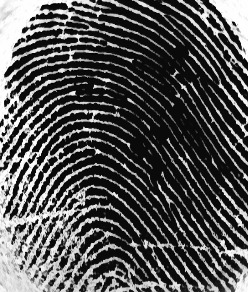
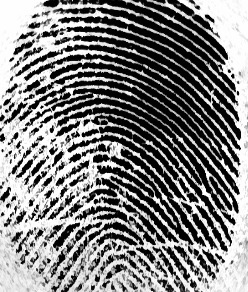
feat: processing images and improving models

diff --git a/app/utils/process_images.py b/app/utils/process_images.py
@@ -1,0 +1,42 @@
+import cv2
+import numpy as np
+
+def process(image_bytes: bytes) -> bytes:
+    # 0. Converter bytes → imagem em escala de cinza
+    np_arr = np.frombuffer(image_bytes, np.uint8)
+    img = cv2.imdecode(np_arr, cv2.IMREAD_GRAYSCALE)
+
+    # 1. Suavização inicial (Gaussiano)
+    blurred = cv2.GaussianBlur(img, (5, 5), 0)
+
+    # 2. Realce adaptativo (CLAHE)
+    clahe = cv2.createCLAHE(clipLimit=2.0, tileGridSize=(8, 8))
+    enhanced = clahe.apply(blurred)
+
+    # 3. Filtro de Gabor (realce de texturas, útil em digitais)
+    #   usamos múltiplas orientações e somamos os resultados
+    gabor_sum = np.zeros_like(enhanced, dtype=np.float32)
+    num_orientations = 8
+    ksize = 15  # tamanho do kernel
+    sigma = 4.0
+    lambd = 10.0
+    gamma = 0.5
+
+    for theta in np.linspace(0, np.pi, num_orientations, endpoint=False):
+        kernel = cv2.getGaborKernel((ksize, ksize), sigma, theta, lambd, gamma, 0, ktype=cv2.CV_32F)
+        filtered = cv2.filter2D(enhanced, cv2.CV_32F, kernel)
+        gabor_sum = np.maximum(gabor_sum, filtered)
+
+    gabor_normalized = cv2.normalize(gabor_sum, None, 0, 255, cv2.NORM_MINMAX).astype(np.uint8)
+
+    # erosão
+    # opening
+
+    # 4. Binarização (Otsu)
+    _, binary = cv2.threshold(gabor_normalized, 0, 255, cv2.THRESH_BINARY + cv2.THRESH_OTSU)
+
+    # ✅ Converte resultado final para PNG (bytes)
+    success, encoded_img = cv2.imencode(".png", binary)
+    if not success:
+        raise ValueError("Erro ao converter imagem processada para PNG")
+    return encoded_img.tobytes()

diff --git a/reading-image-test.py b/reading-image-test.py
@@ -2,6 +2,7 @@ from app.db import SessionLocal
 from app.models.fingerprint import Fingerprint
 
 def export_fingerprint_image(fingerprint_id, output_path):
+    filtered_path = 'fingerprint_filtered.jpg'
     session = SessionLocal()
     try:
         # Busca a impressão digital pelo ID
@@ -15,6 +16,9 @@ def export_fingerprint_image(fingerprint_id, output_path):
             with open(output_path, "wb") as out_file:
                 out_file.write(fingerprint.image_data)
             print(f"Imagem exportada com sucesso para: {output_path}")
+            with open(filtered_path, "wb") as out_file:
+                out_file.write(fingerprint.image_filtered)
+            print(f"Imagem exportada com sucesso para: {filtered_path}")
         else:
             print("Impressão digital não contém dados de imagem.")
 
@@ -24,4 +28,4 @@ def export_fingerprint_image(fingerprint_id, output_path):
         session.close()
 
 if __name__ == "__main__":
-    export_fingerprint_image(fingerprint_id=7, output_path="output_fingerprint.jpg")
+    export_fingerprint_image(fingerprint_id=8, output_path="output_fingerprint.jpg")

diff --git a/app/routers/fingerprint.py b/app/routers/fingerprint.py
@@ -6,6 +6,7 @@ from app.models.volunteer import Volunteer
 from app.models.fingerprint import Fingerprint
 from app.constants.enum import FingerEnum, HandEnum, PatternEnum
 from app.db import get_db
+from app.utils.process_images import process
 
 
 router = APIRouter(prefix="/fingerprints", tags=["Fingerprints"])
@@ -36,6 +37,7 @@ async def create_fingerprint(
         raise HTTPException(status_code=404, detail="Volunteer not found")
 
     image_bytes = await image_data.read()
+    image_filtered = process(image_bytes)
 
     new_fp = Fingerprint(
         volunteer_id=volunteer_id,
@@ -45,6 +47,7 @@ async def create_fingerprint(
         delta=delta,
         notes=notes,
         image_data=image_bytes,
+        image_filtered=image_filtered,
         created_at=datetime.now()
     )
     db.add(new_fp)

diff --git a/app/models/fingerprint.py b/app/models/fingerprint.py
@@ -9,7 +9,7 @@ class Fingerprint(Base):
     __tablename__ = "fingerprints"
 
     id = Column(Integer, primary_key=True)
-    patient_id = Column(Integer, ForeignKey("volunteers.id"), nullable=False)
+    volunteer_id = Column(Integer, ForeignKey("volunteers.id"), nullable=False)
 
     hand = Column(Enum(HandEnum), nullable=False)
     finger = Column(Enum(FingerEnum), nullable=False)
@@ -23,4 +23,4 @@ class Fingerprint(Base):
     created_at = Column(DateTime, default=datetime.utcnow)
     updated_at = Column(DateTime, default=datetime.utcnow, onupdate=datetime.utcnow)
 
-    patient = relationship("Volunteer", back_populates="fingerprints")
+    volunteer = relationship("Volunteer", back_populates="fingerprints")

diff --git a/restart-database.py b/restart-database.py
@@ -1,4 +1,4 @@
-from sqlalchemy import create_engine
+from sqlalchemy import create_engine, text
 from app.models.fingerprint import Base
 from app.models.volunteer import Volunteer
 from app.models.project import Project
@@ -13,9 +13,16 @@ import os
 load_dotenv()
 
 DATABASE_URL = os.getenv("DATABASE_URL")
-
 engine = create_engine(DATABASE_URL)
 
+with engine.connect() as conn:
+    conn.execute(text("DROP SCHEMA public CASCADE;"))
+    conn.execute(text("CREATE SCHEMA public;"))
+    conn.commit()
+
+print("Schema limpo com sucesso!")
+
+print("Criando tabelas...")
 Base.metadata.create_all(bind=engine)
 
-print("Tabelas criadas com sucesso!")
+print("Banco de dados resetado com sucesso!")

diff --git a/app/main.py b/app/main.py
@@ -1,11 +1,21 @@
 from fastapi import FastAPI
-from app.routers import user, fingerprint, review, auth, volunteer
+from app.routers import user, fingerprint, auth, volunteer
+from fastapi.middleware.cors import CORSMiddleware
 
 app = FastAPI(title="TCC Dermatóglifo API", version="1.0")
+
+app.add_middleware(
+    CORSMiddleware,
+    allow_origins=["http://localhost:8080"],
+    allow_credentials=True,
+    allow_methods=["*"],
+    allow_headers=["*"],
+)
+
 
 app.include_router(auth.router)
 app.include_router(user.router)
 app.include_router(volunteer.router)
 app.include_router(fingerprint.router)
-app.include_router(review.router)
+# app.include_router(review.router)
 

diff --git a/app/routers/volunteer.py b/app/routers/volunteer.py
@@ -8,12 +8,9 @@ from app.db import get_db
 router = APIRouter(prefix="/volunteers", tags=["Volunteer"])
 
 @router.get("/", response_model=list[VolunteerOut])
-def list_volunteers():
-    return [{
-        "id": 1, "name": "Maria Souza", "age": 30, "gender": "female",
-        "phone": "11999999999", "description": "Paciente exemplo",
-        "created_at": datetime.now()
-    }]
+def list_volunteers(db: Session = Depends(get_db)):
+    volunteers = db.query(Volunteer).all()
+    return volunteers
 
 @router.post("/", response_model=VolunteerOut)
 def create_volunteer(volunteer: VolunteerCreate, db: Session = Depends(get_db)):

diff --git a/app/models/volunteer.py b/app/models/volunteer.py
@@ -14,8 +14,8 @@ class Volunteer(Base):
     gender = Column(Enum(GenderEnum))
     phone = Column(String)
 
-    created_at = Column(DateTime, default=datetime.utcnow)
-    updated_at = Column(DateTime, default=datetime.utcnow, onupdate=datetime.utcnow)
+    created_at = Column(DateTime, default=datetime.utcnow, nullable=False)
+    updated_at = Column(DateTime, default=datetime.utcnow, onupdate=datetime.utcnow, nullable=False)
 
     fingerprints = relationship("Fingerprint", back_populates="volunteer")
     # analyses = relationship("Analyse", back_populates="patient")

diff --git a/app/schemas/fingerprint.py b/app/schemas/fingerprint.py
@@ -4,7 +4,7 @@ from typing import Optional
 from app.constants.enum import HandEnum, FingerEnum, PatternEnum
 
 class FingerprintCreate(BaseModel):
-    patient_id: int
+    volunteer_id: int
     hand: HandEnum
     finger: FingerEnum
     pattern_type: Optional[PatternEnum]
@@ -13,7 +13,7 @@ class FingerprintCreate(BaseModel):
 
 class FingerprintOut(BaseModel):
     id: int
-    patient_id: int
+    volunteer_id: int
     hand: HandEnum
     finger: FingerEnum
     pattern_type: Optional[PatternEnum]
